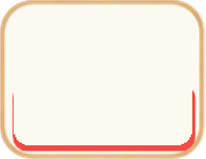
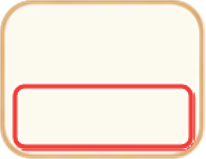
UI：弹窗面板改用独立 panel 底图——替换 cardNormal 消除挑战红环 + 通关胶囊角标按设计稿比例缩放定位

Changed region(s): [[0.0583, 0.5031, 0.9612, 0.956]]

diff --git a/js/render/renderer.js b/js/render/renderer.js
@@ -104,6 +104,7 @@ export default class Renderer {
     load('btnPrimary', 'assets/images/btn-primary.png');
     load('btnSecondary', 'assets/images/btn-secondary.png');
     load('btnBack', 'assets/images/btn-back.png');
+    load('panel', 'assets/images/panel.png'); // 浮层面板底图（合成奶油卡，无红环；勿用 cardNormal——其带挑战红环）
     load('cardCleared', 'assets/images/card-cleared.png');
     load('cardNormal', 'assets/images/card-normal.png');
     load('cardLocked', 'assets/images/card-locked.png');
@@ -1158,7 +1159,7 @@ export default class Renderer {
       } else if (cleared && chkImg && chkImg.width) {
         ctx.drawImage(chkImg, x + cardW - 41, y + 12, 28, 28);
       } else if (unlocked && chlImg && chlImg.width) {
-        ctx.drawImage(chlImg, x + cardW - 58, y + 13, 47, 27);
+        ctx.drawImage(chlImg, x + cardW - 56, y + 18, 43, 17); // 设计稿 pill 原比例 2.26:1
       } else {
         // 降级：文字标识（右中）
         ctx.textBaseline = 'middle';
@@ -1260,7 +1261,7 @@ export default class Renderer {
     ctx.fillStyle = 'rgba(43, 28, 12, 0.5)';
     ctx.fillRect(0, 0, this.W, this.H);
     // 果汁卡片风面板（九宫格）+ 标题
-    this.drawPanel(this.images.cardNormal, this.W / 2 - 150, this.H / 2 - 96, 300, 204);
+    this.drawPanel(this.images.panel, this.W / 2 - 150, this.H / 2 - 96, 300, 204);
     ctx.textAlign = 'center';
     ctx.fillStyle = '#8A5A22';
     ctx.font = 'bold 22px sans-serif';
@@ -1290,7 +1291,7 @@ export default class Renderer {
     ctx.fillStyle = 'rgba(43, 28, 12, 0.5)';
     ctx.fillRect(0, 0, this.W, this.H);
     // 果汁卡片风面板（九宫格）
-    this.drawPanel(this.images.cardNormal, this.W / 2 - 150, this.H / 2 - 124, 300, 196);
+    this.drawPanel(this.images.panel, this.W / 2 - 150, this.H / 2 - 124, 300, 196);
     // 标题与说明（面板上改用棕色系）
     ctx.textAlign = 'center';
     ctx.fillStyle = '#8A5A22';
@@ -1327,7 +1328,7 @@ export default class Renderer {
     const ch = 366;
     const cx = (this.W - cw) / 2;
     const cy = (this.H - ch) / 2 - 40;
-    this.drawPanel(this.images.cardNormal, cx, cy, cw, ch);
+    this.drawPanel(this.images.panel, cx, cy, cw, ch);
 
     // 标题
     ctx.textAlign = 'center';
@@ -2052,7 +2053,7 @@ export default class Renderer {
     const ch = 236;
     const cx = (this.W - cw) / 2;
     const cy = (this.H - ch) / 2 - 30;
-    this.drawPanel(this.images.cardNormal, cx, cy, cw, ch);
+    this.drawPanel(this.images.panel, cx, cy, cw, ch);
     ctx.textAlign = 'center';
     ctx.fillStyle = '#B22218';
     ctx.font = 'bold 24px sans-serif';
